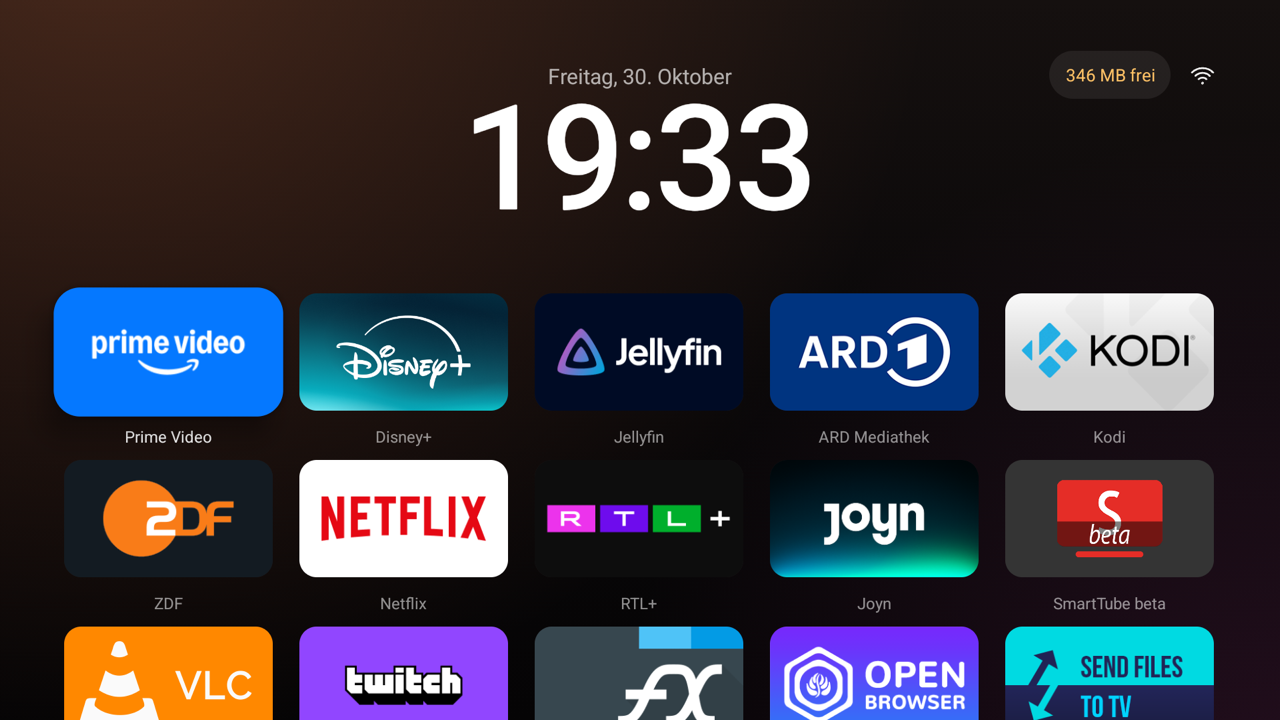
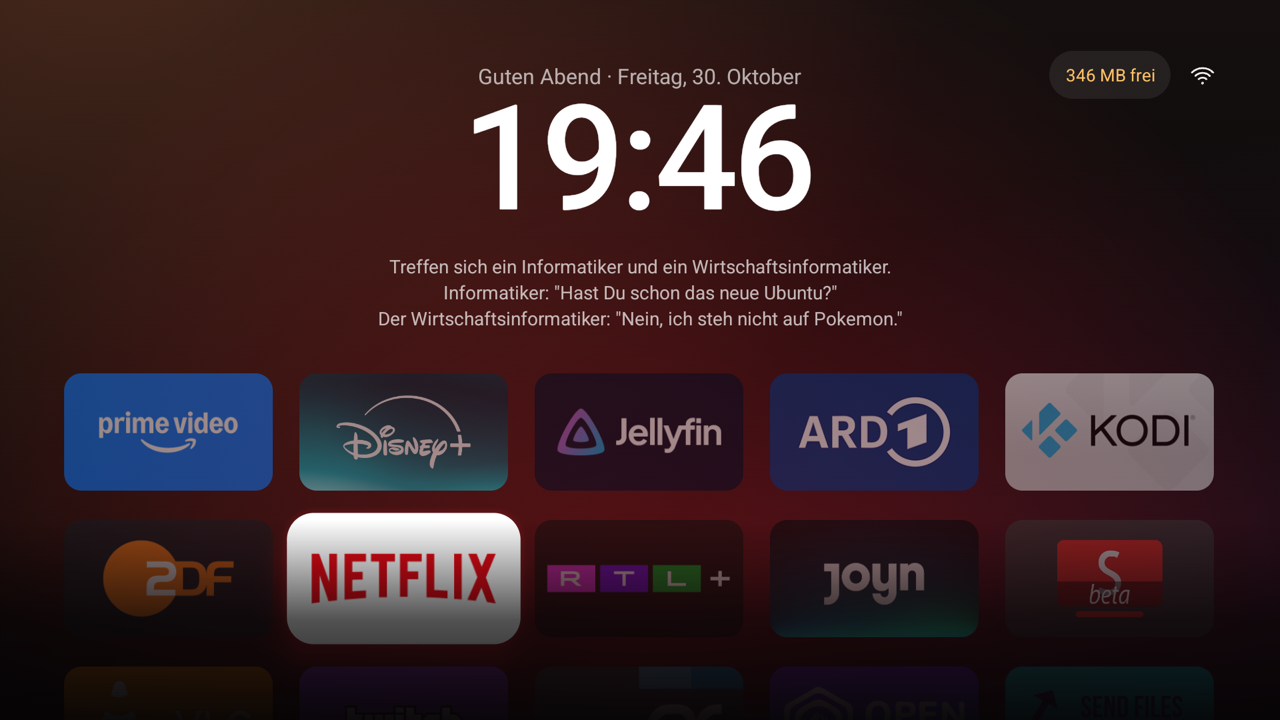
Cinema: app-coloured light, spotlight, lights off, greeting, joke of the day
- The page behind the apps glows in the focused app's colour (worked out once
  per app from its banner), the focused app casts a shadow in it and the others
  step back. No names under the tiles.
- The bottom edge fades into the wallpaper like a screen's.
- After 20 s without a key only greeting, clock and joke stay; the first key
  only turns the lights back on.
- Greeting by time of day before the date.
- Joke of the day from JokeAPI (safe mode), once a day, kept for the day. Adds
  the INTERNET permission, used by the Cinema layout only.

diff --git a/src/com/ansub/tvhome/MainActivity.java b/src/com/ansub/tvhome/MainActivity.java
@@ -124,17 +124,32 @@ public class MainActivity extends Activity {
     private static final Interpolator FOCUS_EASE = new DecelerateInterpolator(1.8f);
     // Layouts, picked under Settings > Layout. Each one: apps per row, the gap between them, tile height in
     // sixteenths of its width, the step from one row to the next, where a single row of apps sits and how high
-    // more rows may push the grid (not into the clock), the clock's and date's size, then three switches:
-    // clock centred, app names always shown, and plain glass tiles with the app's icon instead of its banner.
+    // more rows may push the grid (not into the clock), the clock's and date's size, then: clock centred,
+    // app names (0 on focus, 1 always, 2 never), plain glass tiles with the app's icon instead of its banner,
+    // and the cinema extras (light in the focused app's colour, a soft bottom edge, lights off when idle, a
+    // greeting and a joke of the day).
     private static final String[] LAYOUT_NAMES = {"Classic", "Compact", "Cinema", "Minimal"};
     private static final int[][] LAYOUTS = {
-        {6, 36, 9, 224, 604, 400, 176, 30, 0, 0, 0},
-        {8, 28, 9, 170, 560, 300, 112, 26, 0, 0, 0},
-        {5, 40, 9, 250, 560, 440, 220, 32, 1, 1, 0},
-        {7, 32, 10, 172, 600, 330, 140, 28, 0, 0, 1},
+        {6, 36, 9, 224, 604, 400, 176, 30, 0, 0, 0, 0},
+        {8, 28, 9, 170, 560, 300, 112, 26, 0, 0, 0, 0},
+        {5, 40, 9, 220, 640, 560, 220, 32, 1, 2, 0, 1},
+        {7, 32, 10, 172, 600, 330, 140, 28, 0, 0, 1, 0},
     };
     private int perRow, gap, tileShape, rowStep, row1Top, gridMinTop, clockSize, dateSize;
-    private boolean clockCentred, alwaysNames, glassOnly;
+    private boolean clockCentred, alwaysNames, noNames, glassOnly, cinema;
+    // Cinema: the others step back to this, the focused app grows a little more, the lights go off after
+    // this long without a key, and the joke is fetched once a day.
+    private static final float SPOTLIGHT_REST = 0.5f, CINEMA_LIFT = 1.12f;
+    private static final long LIGHTS_OFF_MS = 20000, LIGHTS_FADE_MS = 1200, GLOW_MS = 450;
+    private static final String JOKE_URL = "https://v2.jokeapi.dev/joke/Any?safe-mode&type=single&lang=";
+    private TextClock dateView;
+    private TextView jokeView;
+    private View clockView, glowView, edgeView;
+    private ScrollView scroller;
+    private final Map<String, Integer> tints = new java.util.HashMap<>(); // each app's colour, worked out once
+    private int glowColor = Color.TRANSPARENT;
+    private ValueAnimator glowFade;
+    private boolean dark, waking, jokeLoading;
     // Storage below this share free gets a note by the icons; below the second it turns amber.
     private static final float STORAGE_LOW = 0.15f, STORAGE_VERY_LOW = 0.10f;
     private static final int ICON_TOP = 76, ICON_BUTTON = 72, ICON_SIZE = 40, ICON_GAP = 12; // level with the date
@@ -217,7 +232,7 @@ public class MainActivity extends Activity {
         showWallpaper(wallpaper());
         applyLayout(LAYOUTS[layout()]);
 
-        ScrollView scroller = new ScrollView(this);
+        scroller = new ScrollView(this);
         scroller.setFillViewport(true);
         scroller.setVerticalScrollBarEnabled(false);
         scroller.setOverScrollMode(View.OVER_SCROLL_NEVER);
@@ -232,6 +247,7 @@ public class MainActivity extends Activity {
         shownLocale = java.util.Locale.getDefault();
         String day = Strings.datePattern();
         TextClock date = clock(day, day, px(dateSize), 0xA8FFFFFF, regular);
+        dateView = date;
         // The clock follows the TV unless --es clock 12 or 24 says otherwise.
         String clockPref = prefs().getString(PREF_CLOCK, null);
         TextClock time = clock("24".equals(clockPref) ? "H:mm" : "h:mm", "12".equals(clockPref) ? "h:mm" : "H:mm",
@@ -245,6 +261,18 @@ public class MainActivity extends Activity {
         LinearLayout.LayoutParams tp = new LinearLayout.LayoutParams(-2, -2);
         tp.topMargin = px(-20 * clockSize / 176); // pull the big digits up under the date
         clock.addView(time, tp);
+        if (cinema) {
+            jokeView = text(px(28), 0xB3FFFFFF, regular);
+            jokeView.setGravity(Gravity.CENTER_HORIZONTAL);
+            jokeView.setMaxLines(3);
+            jokeView.setEllipsize(android.text.TextUtils.TruncateAt.END);
+            jokeView.setLineSpacing(px(6), 1f);
+            jokeView.setText(getSharedPreferences(PREFS, 0).getString("joke", ""));
+            LinearLayout.LayoutParams jp = new LinearLayout.LayoutParams(px(1300), -2);
+            jp.topMargin = px(12);
+            clock.addView(jokeView, jp);
+        }
+        clockView = clock;
         if (clockCentred) {
             FrameLayout.LayoutParams cl = new FrameLayout.LayoutParams(-2, -2, Gravity.CENTER_HORIZONTAL);
             cl.topMargin = px(92);
@@ -256,7 +284,19 @@ public class MainActivity extends Activity {
         moveHint.setVisibility(View.GONE);
         root.addView(moveHint, at(px(MARGIN), px(row1Top - 64), -2, -2));
 
-        setContentView(scroller);
+        if (cinema) {
+            // Behind the page, a light in the focused app's colour; over it, the bottom edge fading into the
+            // wallpaper like a screen's, so a cut-off row reads as more to come.
+            FrameLayout stage = new FrameLayout(this);
+            glowView = new View(this);
+            glowView.setBackground(radial(Color.TRANSPARENT, 0.5f, 0.95f, px(1150)));
+            stage.addView(glowView, new FrameLayout.LayoutParams(-1, -1));
+            stage.addView(scroller, new FrameLayout.LayoutParams(-1, -1));
+            edgeView = new View(this);
+            stage.addView(edgeView, new FrameLayout.LayoutParams(-1, px(300), Gravity.BOTTOM));
+            paintEdge(WALLPAPERS[wallpaper()]);
+            setContentView(stage);
+        } else setContentView(scroller);
 
         IntentFilter f = new IntentFilter();
         f.addAction(Intent.ACTION_PACKAGE_ADDED);
@@ -381,6 +421,11 @@ public class MainActivity extends Activity {
         refreshNetwork();
         View f = getCurrentFocus();
         if (f == null && !tiles.isEmpty()) tiles.get(0).requestFocus();
+        if (cinema) {
+            greet();
+            loadJoke();
+            lightsOn(false);
+        }
         HomeButton.onHomeResumed(this); // back on this home screen: Home comes here again
         // Only counted as opened once it has stayed up a moment, so a crash right after opening still
         // counts as a failed launch.
@@ -395,12 +440,19 @@ public class MainActivity extends Activity {
         // Left normally (an app or Settings opened), so it didn't crash.
         getWindow().getDecorView().removeCallbacks(homeOk);
         HomeButton.onHomeOk(this);
+        root.removeCallbacks(lightsOff);
+        root.removeCallbacks(greeting);
     }
 
     // Back from a menu or a window on top (like the uninstall prompt): catch up on apps that changed.
     @Override
     public void onWindowFocusChanged(boolean hasFocus) {
         super.onWindowFocusChanged(hasFocus);
+        // A menu on top keeps the lights on; they count down again once it's closed.
+        if (cinema) {
+            root.removeCallbacks(lightsOff);
+            if (hasFocus && !dark) root.postDelayed(lightsOff, LIGHTS_OFF_MS);
+        }
         if (hasFocus) refreshApps();
         else okDownKey = null; // an OK still held finishes in the window that took over
     }
@@ -422,6 +474,103 @@ public class MainActivity extends Activity {
 
     @Override
     public void onBackPressed() { /* home screen: nothing to go back to */ }
+
+    // Cinema: any key counts as someone there. With the lights off, the first key only turns them back on,
+    // so a press meant to wake the screen doesn't open an app.
+    @Override
+    public boolean dispatchKeyEvent(KeyEvent ev) {
+        if (cinema) {
+            if (dark && ev.getAction() == KeyEvent.ACTION_DOWN) {
+                waking = true;
+                lightsOn(true);
+                return true;
+            }
+            if (waking) {
+                if (ev.getAction() == KeyEvent.ACTION_UP) waking = false;
+                return true;
+            }
+            root.removeCallbacks(lightsOff);
+            root.postDelayed(lightsOff, LIGHTS_OFF_MS);
+        }
+        return super.dispatchKeyEvent(ev);
+    }
+
+    private final Runnable lightsOff = () -> {
+        if (!hasWindowFocus() || movingKey != null) return;
+        dark = true;
+        scroller.smoothScrollTo(0, 0);
+        for (int i = 0; i < root.getChildCount(); i++) {
+            View c = root.getChildAt(i);
+            if (c != clockView) c.animate().alpha(0f).setDuration(LIGHTS_FADE_MS).start();
+        }
+        glowView.animate().alpha(0f).setDuration(LIGHTS_FADE_MS).start();
+    };
+
+    private void lightsOn(boolean fade) {
+        dark = false;
+        for (int i = 0; i < root.getChildCount(); i++) {
+            View c = root.getChildAt(i);
+            c.animate().cancel();
+            if (fade) c.animate().alpha(1f).setDuration(FOCUS_MS * 2).start();
+            else c.setAlpha(1f);
+        }
+        glowView.animate().cancel();
+        if (fade) glowView.animate().alpha(1f).setDuration(FOCUS_MS * 2).start();
+        else glowView.setAlpha(1f);
+        View f = getCurrentFocus();
+        if (f != null) f.requestRectangleOnScreen(new android.graphics.Rect(0, 0, f.getWidth(), f.getHeight()));
+        root.removeCallbacks(lightsOff);
+        root.postDelayed(lightsOff, LIGHTS_OFF_MS);
+    }
+
+    // "Good evening · Friday, 30 October", checked again every quarter of an hour.
+    private final Runnable greeting = this::greet;
+
+    private void greet() {
+        int h = java.util.Calendar.getInstance().get(java.util.Calendar.HOUR_OF_DAY);
+        String hello = Strings.t(h >= 5 && h < 11 ? "Good morning" : h >= 11 && h < 17 ? "Good afternoon"
+                : h >= 17 && h < 23 ? "Good evening" : "Good night");
+        String f = "'" + hello.replace("'", "''") + "' · " + Strings.datePattern();
+        dateView.setFormat12Hour(f);
+        dateView.setFormat24Hour(f);
+        root.removeCallbacks(greeting);
+        root.postDelayed(greeting, 15 * 60 * 1000);
+    }
+
+    // The joke of the day: one a day from JokeAPI (safe mode only), kept for the day. Without a
+    // connection yesterday's stays.
+    private void loadJoke() {
+        final SharedPreferences prefs = getSharedPreferences(PREFS, 0);
+        java.util.Calendar now = java.util.Calendar.getInstance();
+        final String today = now.get(java.util.Calendar.YEAR) + "-" + now.get(java.util.Calendar.DAY_OF_YEAR);
+        if (today.equals(prefs.getString("joke_day", null)) || jokeLoading) return;
+        jokeLoading = true;
+        final String lang = Arrays.asList("de", "cs", "es", "fr", "pt").contains(Strings.lang()) ? Strings.lang() : "en";
+        new Thread(() -> {
+            String joke = null;
+            try {
+                java.net.HttpURLConnection c = (java.net.HttpURLConnection) new java.net.URL(JOKE_URL + lang).openConnection();
+                c.setConnectTimeout(5000);
+                c.setReadTimeout(5000);
+                try (java.io.InputStream in = c.getInputStream()) {
+                    java.io.ByteArrayOutputStream out = new java.io.ByteArrayOutputStream();
+                    byte[] buf = new byte[4096];
+                    for (int n; (n = in.read(buf)) > 0; ) out.write(buf, 0, n);
+                    org.json.JSONObject o = new org.json.JSONObject(out.toString("UTF-8"));
+                    if (!o.optBoolean("error", true)) joke = o.optString("joke", null);
+                } finally {
+                    c.disconnect();
+                }
+            } catch (Exception ignored) {}
+            final String got = joke;
+            runOnUiThread(() -> {
+                jokeLoading = false;
+                if (got == null || got.trim().isEmpty()) return;
+                prefs.edit().putString("joke", got.trim()).putString("joke_day", today).apply();
+                if (jokeView != null) jokeView.setText(got.trim());
+            });
+        }).start();
+    }
 
     // Holding Back opens Google TV's own home screen, where it stays on (see HomeButton). Spotted on a
     // key repeat, or when Back is let go if the remote sends none.
@@ -484,6 +633,13 @@ public class MainActivity extends Activity {
 
     private void showWallpaper(int i) {
         getWindow().setBackgroundDrawable(background(WALLPAPERS[i]));
+        if (edgeView != null) paintEdge(WALLPAPERS[i]);
+    }
+
+    private void paintEdge(int[] c) {
+        int base = c[2] & 0x00FFFFFF;
+        edgeView.setBackground(new GradientDrawable(GradientDrawable.Orientation.TOP_BOTTOM,
+                new int[] {base, 0xB0000000 | base, 0xF2000000 | base}));
     }
 
     // The wallpapers, each with a small dot of its colours. Moving through the list shows each one
@@ -513,7 +669,8 @@ public class MainActivity extends Activity {
     private void applyLayout(int[] l) {
         perRow = l[0]; gap = l[1]; tileShape = l[2]; rowStep = l[3]; row1Top = l[4]; gridMinTop = l[5];
         clockSize = l[6]; dateSize = l[7];
-        clockCentred = l[8] == 1; alwaysNames = l[9] == 1; glassOnly = l[10] == 1;
+        clockCentred = l[8] == 1; alwaysNames = l[9] == 1; noNames = l[9] == 2; glassOnly = l[10] == 1;
+        cinema = l[11] == 1;
     }
 
     // The layouts by name; the clock and grid are placed once, so picking one starts the page over.
@@ -577,7 +734,7 @@ public class MainActivity extends Activity {
         gridTop = Math.max(px(gridMinTop), px(row1Top) - (rows - 1) * px(rowStep));
         int bottomTop = gridTop + rows * px(rowStep);
         ((FrameLayout.LayoutParams) moveHint.getLayoutParams()).topMargin = gridTop - px(64);
-        root.setMinimumHeight(bottomTop + h + px(MARGIN));
+        root.setMinimumHeight(bottomTop + h + px(MARGIN) + (cinema ? px(200) : 0));
 
         for (String pkg : apps) {
             Intent li = launchIntent(pm, pkg);
@@ -676,7 +833,8 @@ public class MainActivity extends Activity {
         card.setTag(key);
 
         // Banner tiles show their name underneath when focused.
-        final TextView caption = banner == null ? null : text(px(24), Color.WHITE, regular);
+        final TextView caption = banner == null || noNames ? null : text(px(24), Color.WHITE, regular);
+        if (cinema) tints.put(key, tint(banner != null ? banner : appIcon));
         if (caption != null) {
             caption.setText(label);
             caption.setGravity(Gravity.CENTER_HORIZONTAL);
@@ -689,6 +847,7 @@ public class MainActivity extends Activity {
             if (has) focusedKey = key;
             lift(v, bg, has, glass ? 0x13FFFFFF : 0xFF1E1A1C, glass ? 0x38FFFFFF : 0xFF1E1A1C,
                     px(RADIUS), px(RADIUS + RADIUS_UP));
+            if (cinema && has) spotlight(key);
             if (caption != null && alwaysNames) {
                 caption.animate().cancel();
                 caption.animate().alpha(has ? 1f : NAME_REST).setDuration(FOCUS_MS).setInterpolator(FOCUS_EASE).start();
@@ -759,7 +918,8 @@ public class MainActivity extends Activity {
     private void lift(View v, GradientDrawable bg, boolean has, int restColor, int focusColor,
                       int restRadius, int focusRadius) {
         v.animate().cancel();
-        v.animate().scaleX(has ? 1.1f : 1f).scaleY(has ? 1.1f : 1f).translationZ(has ? px(26) : 0)
+        float up = cinema ? CINEMA_LIFT : 1.1f;
+        v.animate().scaleX(has ? up : 1f).scaleY(has ? up : 1f).translationZ(has ? px(26) : 0)
                 .setDuration(FOCUS_MS).setInterpolator(FOCUS_EASE).withLayer().start();
         tween(v, bg, has, restColor, focusColor, restRadius, focusRadius);
     }
@@ -798,6 +958,69 @@ public class MainActivity extends Activity {
     private static int channel(int from, int to, int shift, float t) {
         int a = (from >>> shift) & 0xFF, b = (to >>> shift) & 0xFF;
         return Math.round(a + (b - a) * t);
+    }
+
+    // Cinema: the focused app keeps full light and casts a shadow in its own colour, which also lights the
+    // page behind; the other apps step back. Anything else focused (Settings, the icons) dims all apps.
+    private void spotlight(String key) {
+        Integer tint = tints.get(key);
+        int color = tint != null ? tint : 0xFF8C8C9A;
+        for (View t : tiles) {
+            Object tag = t.getTag();
+            if (!rowApps.contains(tag)) continue;
+            boolean lit = tag.equals(key);
+            t.animate().alpha(lit ? 1f : SPOTLIGHT_REST).setDuration(FOCUS_MS * 2).start();
+            if (lit && android.os.Build.VERSION.SDK_INT >= 28) {
+                t.setOutlineSpotShadowColor(color);
+                t.setOutlineAmbientShadowColor(color);
+            }
+        }
+        glow(tint != null ? (color & 0x00FFFFFF) | 0x66000000 : 0x26FFFFFF);
+    }
+
+    // Fades the light behind the page to a new colour.
+    private void glow(final int to) {
+        if (glowView == null || to == glowColor) return;
+        if (glowFade != null) glowFade.cancel();
+        final int from = glowColor;
+        final GradientDrawable g = (GradientDrawable) glowView.getBackground();
+        glowFade = ValueAnimator.ofFloat(0f, 1f);
+        glowFade.setDuration(GLOW_MS);
+        glowFade.setInterpolator(FOCUS_EASE);
+        glowFade.addUpdateListener(an -> {
+            int c = blend(from, to, (float) an.getAnimatedValue());
+            glowColor = c;
+            g.setColors(new int[] {c, c & 0x00FFFFFF});
+        });
+        glowFade.start();
+    }
+
+    // An app's colour from its banner or icon: an average weighted towards saturated pixels, so a white
+    // banner with a red logo (Netflix) gives red, then made bright enough to glow. Grey if there's none.
+    private int tint(Drawable d) {
+        if (d == null) return 0xFF8C8C9A;
+        try {
+            Drawable copy = d.getConstantState() != null ? d.getConstantState().newDrawable().mutate() : d;
+            Bitmap b = Bitmap.createBitmap(32, 18, Bitmap.Config.ARGB_8888);
+            copy.setBounds(0, 0, 32, 18);
+            copy.draw(new Canvas(b));
+            float r = 0, gr = 0, bl = 0, weight = 0;
+            float[] hsv = new float[3];
+            for (int y = 0; y < 18; y++) for (int x = 0; x < 32; x++) {
+                int p = b.getPixel(x, y);
+                if (Color.alpha(p) < 128) continue;
+                Color.colorToHSV(p, hsv);
+                float w = hsv[1] * hsv[1] * hsv[2] + 0.01f;
+                r += Color.red(p) * w; gr += Color.green(p) * w; bl += Color.blue(p) * w; weight += w;
+            }
+            b.recycle();
+            if (weight <= 0) return 0xFF8C8C9A;
+            Color.colorToHSV(Color.rgb(Math.round(r / weight), Math.round(gr / weight), Math.round(bl / weight)), hsv);
+            hsv[2] = Math.max(hsv[2], 0.85f);
+            return Color.HSVToColor(hsv);
+        } catch (Throwable t) {
+            return 0xFF8C8C9A;
+        }
     }
 
     // Names shown under every banner (Cinema) rest dimmed, so the focused one still stands out.

diff --git a/src/com/ansub/tvhome/Strings.java b/src/com/ansub/tvhome/Strings.java
@@ -15,6 +15,7 @@ final class Strings {
         "Rename", "Show hidden inputs", "TV", "Laptop", "PC", "Blu-ray", "Soundbar", "Type a name…",
         "Open Google TV", "Catch Home: on", "Catch Home: off",
         "Layout", "Classic", "Compact", "Cinema", "Minimal", "%s free",
+        "Good morning", "Good afternoon", "Good evening", "Good night",
     };
 
     // Keyed by language ("de"), or language-country ("zh-TW") where a country writes it differently.
@@ -33,6 +34,7 @@ final class Strings {
             "Umbenennen", "Ausgeblendete Eingänge anzeigen", "TV", "Laptop", "PC", "Blu-ray", "Soundbar", "Namen eingeben…",
             "Google TV öffnen", "Home-Taste abfangen: an", "Home-Taste abfangen: aus",
             "Layout", "Klassisch", "Kompakt", "Kino", "Minimal", "%s frei",
+            "Guten Morgen", "Guten Tag", "Guten Abend", "Gute Nacht",
         });
         LANGS.put("es", new String[] {
             "Ajustes", "Añadir app", "Red", "Sin conexión", "Sonido", "Imagen",

diff --git a/FORK.md b/FORK.md
@@ -20,6 +20,19 @@ gleich mit dem Original.
 - **Google TV öffnen**: bleibt bis zum nächsten Home bei Google TV.
 - **Home-Taste abfangen: an/aus**: aus = Home verhält sich wieder wie bei Google TV.
 
+**Kino-Layout**
+- Hintergrund leuchtet in der Farbe der markierten App (aus Banner/Icon berechnet, einmal pro App), weich überblendet.
+- Markierte App größer, mit Schatten in ihrer Farbe; die anderen gedimmt. Keine Namen unter den Kacheln.
+- Unterer Rand läuft wie eine Leinwand ins Dunkle aus.
+- „Licht aus“: nach 20 s ohne Taste bleiben nur Begrüßung, Uhr und Witz. Der erste Tastendruck weckt nur.
+- Begrüßung je nach Tageszeit vor dem Datum.
+- Witz des Tages von [JokeAPI](https://v2.jokeapi.dev) (safe mode, Sprache des TVs), einmal pro Tag geladen und
+  gespeichert. Dafür hat die App jetzt die Berechtigung `INTERNET`; andere Layouts gehen nicht ins Netz.
+
+| Prime Video markiert | Licht aus |
+|---|---|
+| ![Kino, Prime Video](docs/screenshots/cinema-prime.png) | ![Kino, Licht aus](docs/screenshots/cinema-lights-off.png) |
+
 **Speicherhinweis**: oben rechts neben dem Netzwerk-Symbol, wenn weniger als 15 % frei sind (orange unter
 10 %). OK öffnet die Speicher-Einstellungen.
 
